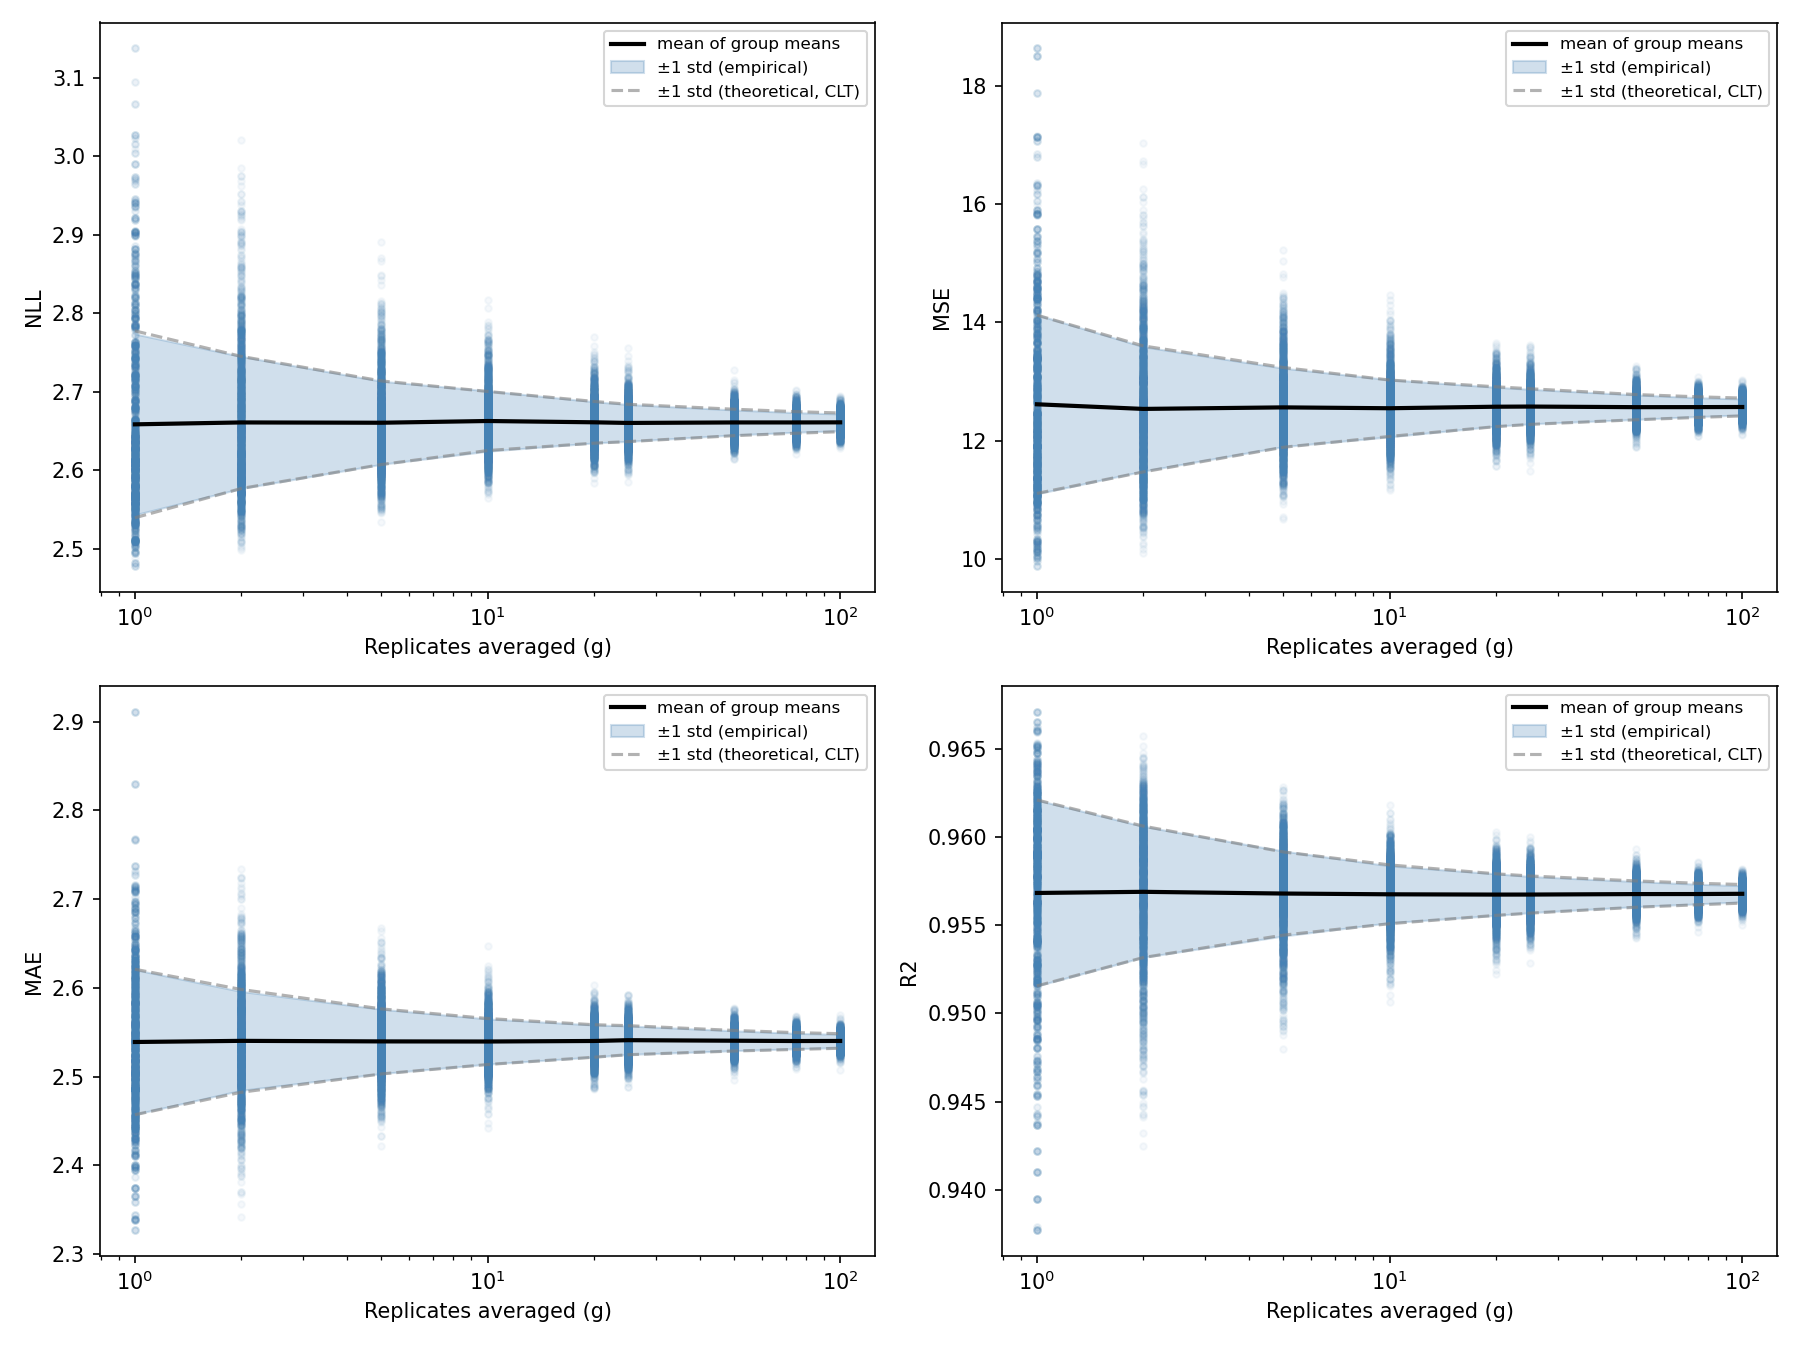
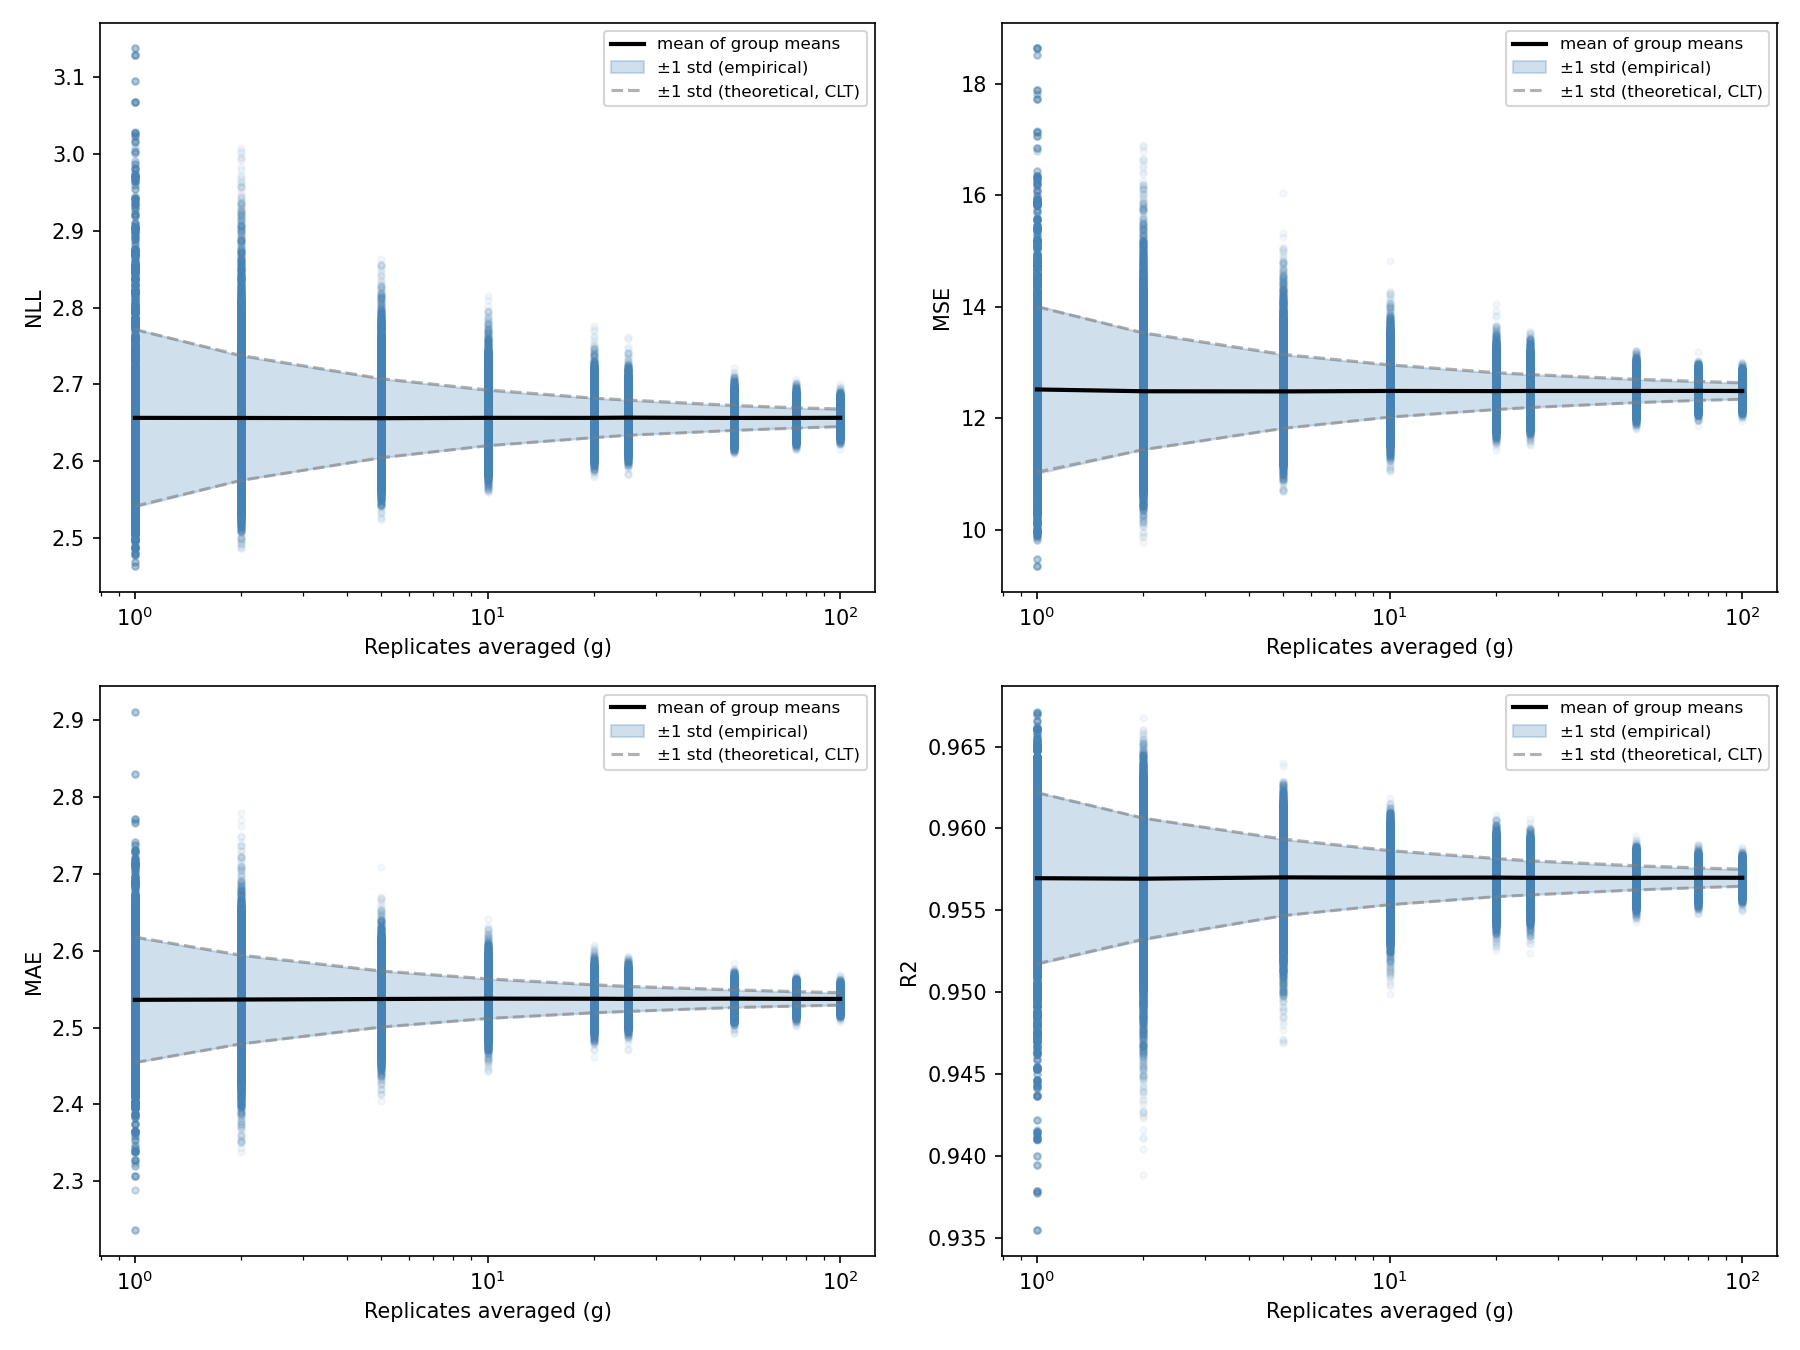
Updated MC Tests

diff --git a/mc_diag_results_10x_1000/mc_graph.py b/mc_diag_results_10x_1000/mc_graph.py
@@ -8,7 +8,7 @@ group_sizes = [1, 2, 5, 10, 20, 25, 50, 75, 100]  # capped well below N=500 to a
 metrics = ['nll', 'mse', 'mae', 'r2']
 
 rng = np.random.default_rng(0)   # fixed seed -> reproducible figure
-n_draws = 2000          # draws per group size; higher = smoother band, more compute
+n_draws = 10000          # draws per group size; higher = smoother band, more compute
 
 
 def subsample_means(scores, group_sizes, n_draws, rng):
